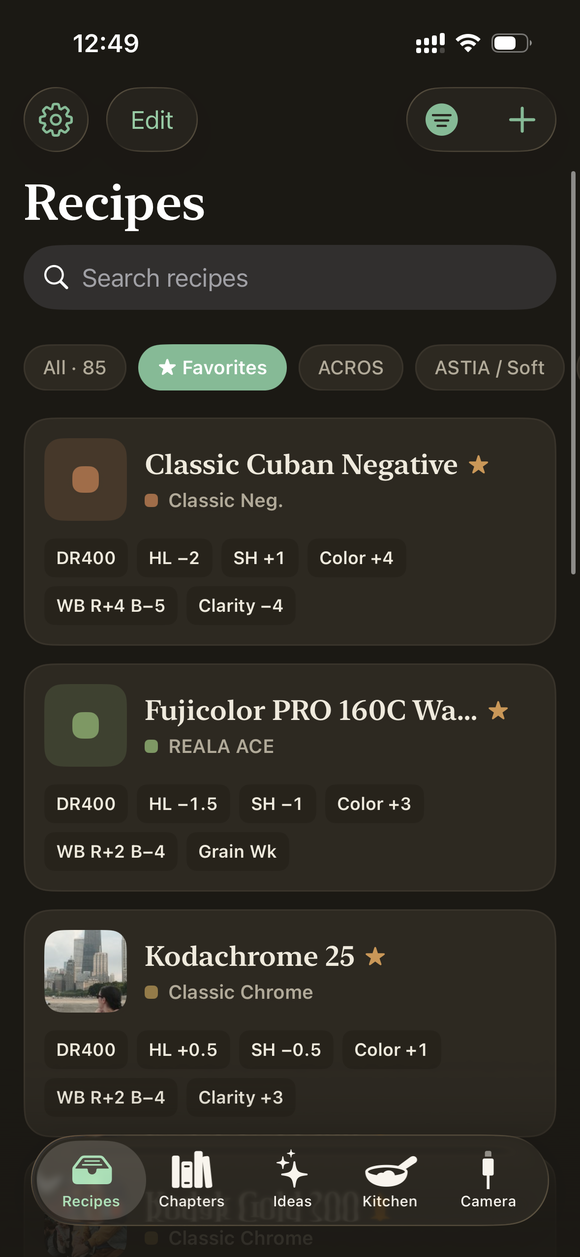
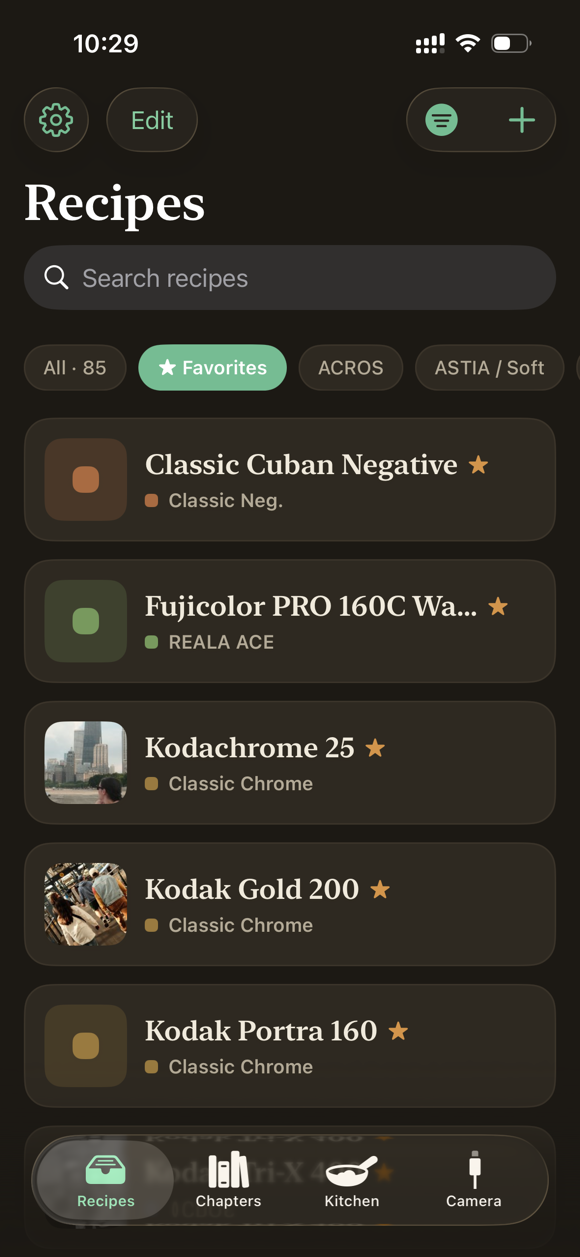
Redesign landing page copy and layout, add Test Kitchen section
Rewrites hero/section copy around the new marketing message, adds
Free-strip checklist, Test Kitchen feature section, and left-border
promise list, widens reading columns, fixes footer/closer spacing,
and swaps in real recipe-list and recipe-detail screenshots.

diff --git a/index.html b/index.html
@@ -9,7 +9,7 @@
      relative ones are ignored by crawlers and social scrapers. -->
 
 <title>Fuji Cookbook — Free Fujifilm recipe manager</title>
-<meta name="description" content="A free app to manage your Fujifilm recipes, group them into chapters, push directly to your camera, and more. Fuji Cookbook is in development.">
+<meta name="description" content="A free digital cookbook for your Fujifilm camera. Import recipes from anywhere, test them on your own RAW files, and push favourites straight to your camera. No ads, no account, no upsell.">
 <link rel="canonical" href="https://fujicookbook.grovehouse.xyz/">
 
 <meta name="author" content="Grove House Studio LLC">
@@ -23,7 +23,7 @@
 <meta property="og:locale" content="en_US">
 <meta property="og:url" content="https://fujicookbook.grovehouse.xyz/">
 <meta property="og:title" content="Fuji Cookbook — Free Fujifilm recipe manager">
-<meta property="og:description" content="Manage your Fujifilm recipes, group them into chapters, push directly to your camera, and more. All for free. Coming soon.">
+<meta property="og:description" content="Import recipes from anywhere, test them on your own RAW files, and push favourites straight to your camera. All for free — no ads, no account, no upsell. Coming soon.">
 <meta property="og:image" content="https://fujicookbook.grovehouse.xyz/img/og.png">
 <meta property="og:image:type" content="image/png">
 <meta property="og:image:width" content="1200">
@@ -33,7 +33,7 @@
 <!-- Twitter / X -->
 <meta name="twitter:card" content="summary_large_image">
 <meta name="twitter:title" content="Fuji Cookbook — Free Fujifilm recipe manager">
-<meta name="twitter:description" content="Manage your Fujifilm recipes, group them into chapters, push directly to your camera, and more. All for free. Coming soon.">
+<meta name="twitter:description" content="Import recipes from anywhere, test them on your own RAW files, and push favourites straight to your camera. All for free — no ads, no account, no upsell. Coming soon.">
 <meta name="twitter:image" content="https://fujicookbook.grovehouse.xyz/img/og.png">
 <meta name="twitter:image:alt" content="Three iPhone screens showing the Fuji Cookbook recipe list, recipe detail, and chapters.">
 
@@ -152,7 +152,7 @@ a:hover{color:var(--gold);}
 }
 
 /* ---------- Hero ---------- */
-.hero{padding:120px 0 84px;max-width:760px;}
+.hero{padding:120px 0 84px;max-width:800px;}
 .hero h1{
   font-family:var(--font-serif);
   font-size:clamp(2.375rem, 5.4vw, 4.5rem);
@@ -163,7 +163,7 @@ a:hover{color:var(--gold);}
 .hero .lede{
   margin-top:32px;
   font-size:clamp(1.0625rem, 1.1vw + .85rem, 1.3125rem);
-  line-height:1.55;color:var(--text-2);max-width:560px;
+  line-height:1.55;color:var(--text-2);max-width:600px;
   text-wrap:pretty;
 }
 /* Lifts "All for free." out of the muted lede without turning it into a
@@ -202,6 +202,128 @@ a:hover{color:var(--gold);}
   color:var(--text-3);text-align:center;text-wrap:balance;
 }
 
+/* ---------- Sections (shared) ---------- */
+.section{
+  padding:80px 0;
+  border-top:1px solid var(--hairline-soft);
+}
+.section-head{max-width:680px;}
+.section-head h2{
+  font-family:var(--font-serif);
+  font-size:clamp(1.75rem, 1.1vw + 1.4rem, 2.5rem);
+  font-weight:600;letter-spacing:-.02em;
+  color:var(--text-display);
+  text-wrap:balance;
+}
+.section-head p{
+  margin-top:16px;
+  font-size:clamp(1rem, .3vw + .95rem, 1.125rem);
+  line-height:1.6;color:var(--text-2);max-width:640px;
+  text-wrap:pretty;
+}
+.section-body{margin-top:40px;}
+
+/* ---------- Free strip ----------
+   A receipt line, not a feature card: a de-ranked label instead of a
+   full heading, and a border-chevron tick instead of a checkmark badge. */
+.strip{padding:80px 0;border-top:1px solid var(--hairline-soft);}
+.strip-title{
+  font-size:13px;font-weight:600;line-height:1;
+  letter-spacing:.13em;text-transform:uppercase;color:var(--text-3);
+  margin:0 0 28px;
+}
+.unlocked{
+  list-style:none;margin:0;padding:0;
+  display:grid;gap:14px 32px;
+  grid-template-columns:repeat(auto-fit, minmax(240px, 1fr));
+  max-width:860px;
+}
+.unlocked li{
+  position:relative;padding-left:30px;
+  font-size:16px;line-height:1.45;color:var(--text-1);
+}
+.unlocked li::before{
+  content:"";position:absolute;left:2px;top:.42em;width:11px;height:6px;
+  border-left:2px solid var(--accent);border-bottom:2px solid var(--accent);
+  transform:rotate(-45deg);
+}
+
+/* Gold is spent exactly once, on the one feature no competitor has. */
+.eyebrow{
+  display:block;margin-bottom:14px;
+  font-size:12px;font-weight:600;line-height:1;
+  letter-spacing:.14em;text-transform:uppercase;color:var(--gold);
+}
+.wide-shot{margin-top:48px;}
+.frame-wide{
+  border-radius:20px;overflow:hidden;
+  border:1px solid var(--hairline);
+  background:var(--bg-sunk);
+  box-shadow:0 40px 90px -40px rgba(0,0,0,.9);
+}
+/* Temporary. Swap for the real Test Kitchen screenshot once it's shot. */
+.shot-placeholder{
+  aspect-ratio:16/9;
+  display:flex;flex-direction:column;align-items:center;justify-content:center;gap:8px;
+  background:repeating-linear-gradient(45deg, rgba(244,239,228,.03) 0 12px, transparent 12px 24px);
+  color:var(--text-3);text-align:center;padding:24px;
+}
+.shot-placeholder span{font-size:15px;font-weight:600;color:var(--text-2);}
+.shot-placeholder small{font-size:13px;}
+.wide-shot figcaption{
+  margin-top:18px;font-size:14px;font-weight:500;line-height:1.5;
+  color:var(--text-3);text-align:center;text-wrap:balance;
+}
+
+.prose{max-width:680px;}
+.prose p{font-size:16px;line-height:1.7;color:var(--text-2);}
+.prose p + p{margin-top:16px;}
+.prose + .prose{margin-top:16px;}
+/* Sized as a supporting subhead, not a second headline — clearly a step
+   down from the h2 above it, still a step up from the body copy below.
+   Sits close under the heading (kitchen-lead) rather than at the default
+   section-body distance, so it reads as the heading's subhead, not as
+   the first line of the body copy. */
+.prose p.pull{
+  font-family:var(--font-serif);font-style:italic;
+  font-size:clamp(1.25rem, .8vw + 1.05rem, 1.5rem);
+  line-height:1.45;color:var(--text-display);
+  max-width:620px;text-wrap:pretty;
+}
+.pull-follow{margin-top:28px;}
+.kitchen-lead{margin-top:22px;}
+
+/* Left-border promise list ("Free, you say?")
+   These three reasons build on each other (no account -> local storage ->
+   the one place a key is needed), so a stacked column with an accent
+   rule reads as one argument instead of three parallel, interchangeable
+   tiles the way a card grid would. */
+.promises{
+  list-style:none;margin-bottom:0;padding:0;
+  display:grid;gap:28px;max-width:750px;
+}
+.promises li{padding-left:20px;border-left:2px solid var(--accent);}
+.promises h3{
+  font-family:var(--font-serif);font-size:18px;font-weight:600;
+  letter-spacing:-.01em;color:var(--text-display);
+}
+.promises p{margin-top:8px;font-size:15px;line-height:1.6;color:var(--text-3);}
+
+.support-note{
+  margin-top:28px;font-size:15px;line-height:1.6;color:var(--text-3);
+}
+
+/* ---------- Closer ---------- */
+.closer{padding:88px 0 56px;border-top:1px solid var(--hairline-soft);}
+.closer h2{
+  font-family:var(--font-serif);
+  font-size:clamp(1.75rem, 1.6vw + 1.3rem, 2.75rem);
+  font-weight:600;letter-spacing:-.02em;color:var(--text-display);
+  text-wrap:balance;
+}
+.closer p{margin-top:14px;font-size:17px;line-height:1.6;color:var(--text-2);max-width:560px;}
+.closer .cta-row{margin-top:36px;}
+
 /* ---------- Footer ---------- */
 .colophon{
   border-top:1px solid var(--hairline-soft);
@@ -210,6 +332,10 @@ a:hover{color:var(--gold);}
 }
 /* Small print recedes by size and weight, not by dropping below the
    4.5:1 contrast floor — --text-4 still measures 4.8:1 on --bg. */
+.colophon .heart{
+  color:var(--accent);
+  font-size:1.05em;
+}
 .colophon .legal{
   display:block;
   margin-top:16px;
@@ -236,12 +362,21 @@ a:hover{color:var(--gold);}
   :root{--gutter:20px;}
   .masthead{padding-top:26px;}
   .hero{padding:64px 0 52px;}
+  /* At this width the headline wraps to 3 lines instead of 2, and the
+     .94 line-height tuned for a 2-line display headline crowds the
+     ascenders/descenders on line 3. Loosen it just for the wrap. */
+  .hero h1{line-height:1.08;}
   .hero .lede{margin-top:24px;}
   .cta-row{margin-top:36px;gap:14px;}
   .btn{width:100%;}
   .screens{gap:44px;padding-bottom:72px;}
   .screen{width:min(300px,100%);}
   .page{padding-bottom:64px;}
+  .section,.strip{padding:56px 0;}
+  .section-body{margin-top:28px;}
+  .strip-title{margin-bottom:20px;}
+  .wide-shot{margin-top:32px;}
+  .closer{padding:64px 0 40px;}
 }
 @media (max-width:400px){
   .masthead{gap:12px;}
@@ -320,14 +455,14 @@ a:hover{color:var(--gold);}
     <main id="main">
       <section class="hero" aria-labelledby="hero-title">
         <h1 id="hero-title">A digital cookbook for your Fujifilm camera</h1>
-        <p class="lede">Manage your recipes, group them into chapters, push them straight to the camera, and more. <strong>All for free.</strong></p>
+        <p class="lede">Import recipes from anywhere, manage and search your library, test recipes on your own RAW files, and push your favourites straight to your camera. <strong>All for free.</strong> No ads, no account, no upsell.</p>
 
         <div class="cta-row">
           <!-- Opens in a new tab so the visitor keeps this page behind the
                form. To use the same tab instead, drop target and rel and
                remove the hidden "(opens in a new tab)" span. -->
           <a class="btn" href="https://forms.gle/DALqp61982LvZpta7"
-             target="_blank" rel="noopener">Sign up for updates<span class="vh"> (opens in a new tab)</span></a>
+             target="_blank" rel="noopener">Email me at launch<span class="vh"> (opens in a new tab)</span></a>
         </div>
       </section>
 
@@ -344,7 +479,7 @@ a:hover{color:var(--gold);}
                    srcset="img/recipes.png 580w, img/recipes@1.5x.png 870w"
                    sizes="(max-width:700px) min(300px, calc(100vw - 40px)), (max-width:960px) calc((100vw - 104px) / 3), 290px"
                    width="580" height="1257" loading="lazy" decoding="async"
-                   alt="Recipes list with a search field, film simulation filters, and recipe cards showing dynamic range, highlight, shadow, and white balance settings.">
+                   alt="Recipes list with a search field, filter chips for favorites and film simulations, and recipe cards showing each recipe's name, film simulation, and favorite status.">
             </picture>
           </div>
           <figcaption>Import your own recipes into a searchable library</figcaption>
@@ -382,10 +517,76 @@ a:hover{color:var(--gold);}
           <figcaption>Chapters for trips, moods, and favorites</figcaption>
         </figure>
       </section>
+
+      <section class="strip" aria-labelledby="free-title">
+        <h2 id="free-title" class="strip-title">Free means all of it</h2>
+        <ul class="unlocked">
+          <li>Import recipes from anywhere</li>
+          <li>Favourite, search, tag, and filter</li>
+          <li>Unlimited recipes and chapters</li>
+          <li>Push to your camera over USB</li>
+          <li>Test recipes and redevelop your RAWs</li>
+          <li>No ads, no account, no upsell</li>
+        </ul>
+      </section>
+
+      <section class="section" aria-labelledby="kitchen-title">
+        <div class="section-head">
+          <span class="eyebrow">Test kitchen</span>
+          <h2 id="kitchen-title">Introducing the Test Kitchen</h2>
+        </div>
+        <div class="section-body prose kitchen-lead">
+          <p class="pull">Every recipe was shot in somebody else&rsquo;s light.</p>
+          <p class="pull-follow">Sample photos of recipes you find tell you how a recipe looked on their day, in their weather, pointed at their subject. They don&rsquo;t tell you how it handles yours.</p>
+          <p>So try it first. Pick up to three of your own RAW files, run up to three recipes across them, and compare the grid. Your camera does the rendering over USB, so you&rsquo;re looking at exactly what it would have made.</p>
+        </div>
+        <figure class="wide-shot">
+          <div class="frame-wide">
+            <div class="shot-placeholder" role="img" aria-label="Placeholder for the Test Kitchen comparison grid screenshot">
+              <span>Test Kitchen screenshot &mdash; coming soon</span>
+              <small>3 RAW files &times; 3 recipes, compared side by side</small>
+            </div>
+          </div>
+          <figcaption>Three RAW files. Three recipes. One screen.</figcaption>
+        </figure>
+      </section>
+
+      <section class="section" aria-labelledby="why-free-title">
+        <div class="section-head">
+          <h2 id="why-free-title">Free, you say? Yes, really.</h2>
+        </div>
+        <div class="section-body prose">
+          <p>I built this for myself, and I&rsquo;m happy to share it with the Fujifilm community.</p>
+          <p>It stays free because there&rsquo;s nothing to bill you for. There&rsquo;s no account, so your library lives on your phone rather than on my servers, which means I&rsquo;m not paying to store it. The one AI feature runs on your own key, so I&rsquo;m not paying for that either. No subscription, no locked features, no ads.</p>
+        </div>
+        <ul class="promises section-body">
+          <li>
+            <h3>Your recipes, on your phone.</h3>
+            <p>Stored locally in the app, no account required. Back them up to your own iCloud if you want. Nothing is sent to me and nothing is stored on my servers, apart from basic app analytics &mdash; and there&rsquo;s a switch to turn those off.</p>
+          </li>
+          <li>
+            <h3>One optional AI feature.</h3>
+            <p>Reading a recipe out of a screenshot needs a vision model, so it needs a key. Skip it and everything else in the app works exactly the same &mdash; you can always type a recipe in or import a file.</p>
+          </li>
+          <li>
+            <h3>Bring your own API key.</h3>
+            <p>Pick your provider and model, paste your key, and it stays on your device. You pay them directly. I don&rsquo;t take a markup, and I don&rsquo;t see your usage.</p>
+          </li>
+        </ul>
+      </section>
+
+      <section class="closer" aria-labelledby="closer-title">
+        <h2 id="closer-title">Not out yet</h2>
+        <p>Close, though. Leave an email and I&rsquo;ll send one message when it&rsquo;s available.</p>
+        <div class="cta-row">
+          <a class="btn" href="https://forms.gle/DALqp61982LvZpta7"
+             target="_blank" rel="noopener">Email me at launch<span class="vh"> (opens in a new tab)</span></a>
+        </div>
+      </section>
     </main>
 
     <footer class="colophon">
-      <p>&copy; 2026 Grove House Studio LLC</p>
+      <p>Made with <span class="heart" aria-hidden="true">&hearts;</span><span class="vh">love</span> in NYC by Zachary Grimshaw. &copy; 2026 Grove House Studio LLC</p>
       <!-- <small> is the spec's element for legal small print and caveats. -->
       <small class="legal">
         Fuji Cookbook is an independent project, not affiliated with, endorsed by, or sponsored by
